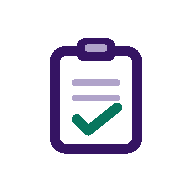
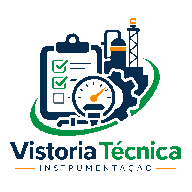
Restaurar logotipo de instrumentação em alta definição e atualizar cache visual

diff --git a/sw.js b/sw.js
@@ -1,6 +1,6 @@
-const CACHE='vistoria-shell-v106-identidade-propria';
+const CACHE='vistoria-shell-v107-logo-instrumentacao';
 importScripts('/background-sync.js');
-const FILES=['/background-sync.js','/point-identity.js','/point-trash.js','/management-tools.js','/voice-dictation.js','/trash-actions.js','/export-current.js','/point-actions.js','/pdf-import.js','/analysis-progress.js','/descritivo-core.js','/descritivo-guiado.js','/technical-review.js','/edit-saved.js','/workflow.js','/field-tools.js','/photo-markup.js','/photo-order.js','/enhancements.js','/layout.css','/cloud-dashboard.css','/layout.js','/google-drive-sync.js','/team-merge.mjs','/','/index.html','/history.js','/form-wizard.js','/pdf-export.js','/improvements.js','/pwa.js','/pdf-lib.min.js','/manifest.webmanifest','/vistoria-icon-192.png','/vistoria-icon-512.png'];
+const FILES=['/background-sync.js','/point-identity.js','/point-trash.js','/management-tools.js','/voice-dictation.js','/trash-actions.js','/export-current.js','/point-actions.js','/pdf-import.js','/analysis-progress.js','/descritivo-core.js','/descritivo-guiado.js','/technical-review.js','/edit-saved.js','/workflow.js','/field-tools.js','/photo-markup.js','/photo-order.js','/enhancements.js','/layout.css','/cloud-dashboard.css','/layout.js','/google-drive-sync.js','/team-merge.mjs','/','/index.html','/history.js','/form-wizard.js','/pdf-export.js','/improvements.js','/pwa.js','/pdf-lib.min.js','/manifest.webmanifest','/vistoria-icon-192.png','/vistoria-icon-512.png','/vistoria-logo.svg'];
 self.addEventListener('install',event=>event.waitUntil(caches.open(CACHE).then(cache=>cache.addAll(FILES))));
 self.addEventListener('activate',event=>event.waitUntil((async()=>{for(const name of await caches.keys())if(name.startsWith('vistoria-shell-')&&name!==CACHE)await caches.delete(name);await self.clients.claim()})()));
 self.addEventListener('fetch',event=>{
